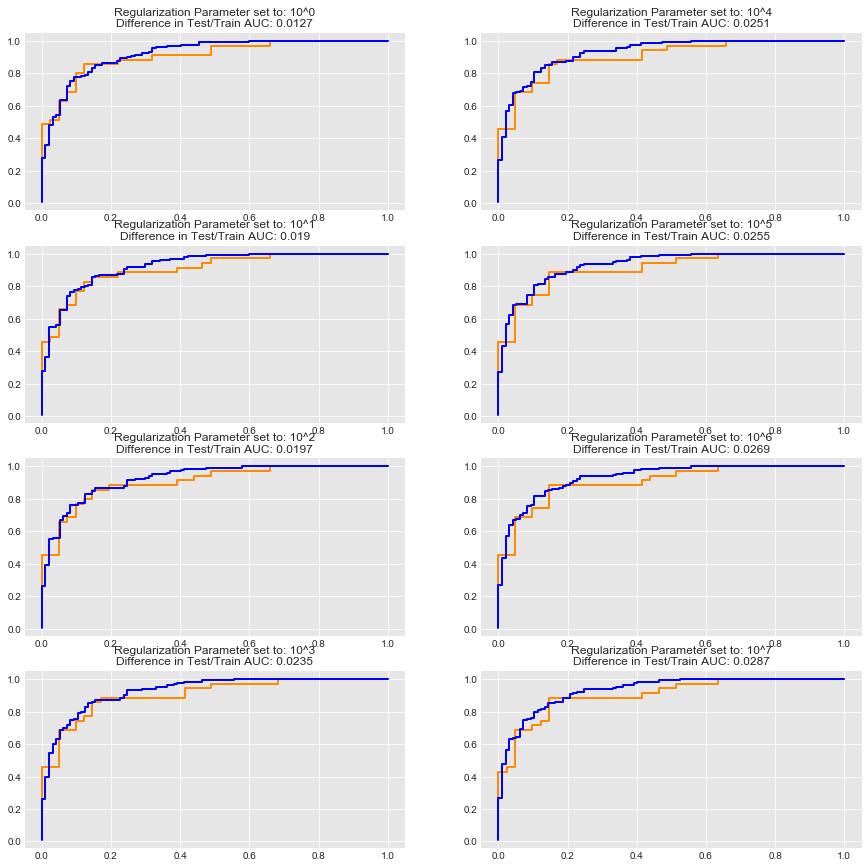
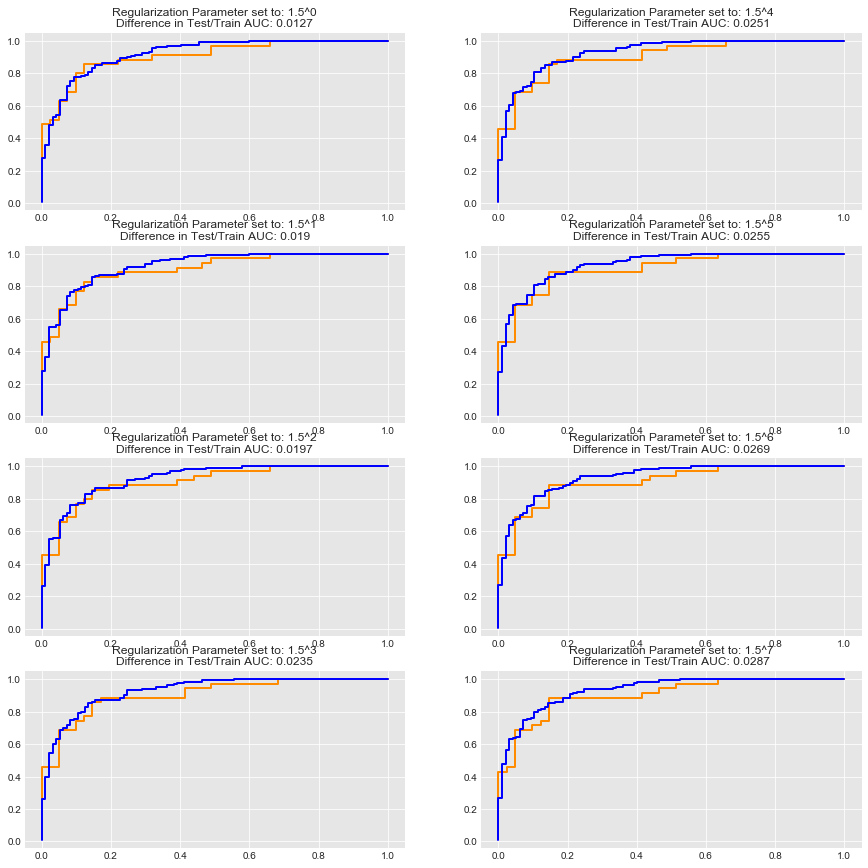
rerun cells and minor typo update

diff --git a/README.md b/README.md
@@ -260,15 +260,11 @@ plt.legend(loc="lower right")
 plt.show()
 ```
 
-    /Users/matthew.mitchell/anaconda3/lib/python3.6/importlib/_bootstrap.py:219: RuntimeWarning: numpy.dtype size changed, may indicate binary incompatibility. Expected 96, got 88
-      return f(*args, **kwds)
-
-
     AUC: 0.8996515679442508
 
 
 
-![png](index_files/index_11_2.png)
+![png](index_files/index_11_1.png)
 
 
 ## Update your ROC curve to not only include a graph of the test set, but one of the train set
@@ -365,7 +361,7 @@ plt.colorbar()
 
 
 
-    <matplotlib.colorbar.Colorbar at 0x10d57de80>
+    <matplotlib.colorbar.Colorbar at 0x1a183d1eb8>
 
 
 
@@ -583,15 +579,15 @@ for n in range(8):
     train_auc = auc(train_fpr, train_tpr)
     auc_diff = round(train_auc - test_auc, 4)
 
-#     print('Test AUC with C=10^{}: {}'.format(n*2, auc(test_fpr, test_tpr)))
-#     print('Train AUCwith C=10^{}: {}'.format(n*2, auc(train_fpr, train_tpr)))
+#     print('Test AUC with C=1.5^{}: {}'.format(n*2, auc(test_fpr, test_tpr)))
+#     print('Train AUCwith C=1.5^{}: {}'.format(n*2, auc(train_fpr, train_tpr)))
     # Add the plot
     ax.plot(test_fpr, test_tpr, color='darkorange',
          lw=lw, label='Test ROC curve')
     ax.plot(train_fpr, train_tpr, color='blue',
              lw=lw, label='train ROC curve')
     
-    ax.set_title('Regularization Parameter set to: 10^{}\nDifference in Test/Train AUC: {}'.format(n, auc_diff))
+    ax.set_title('Regularization Parameter set to: 1.5^{}\nDifference in Test/Train AUC: {}'.format(n, auc_diff))
 
 ```
 
